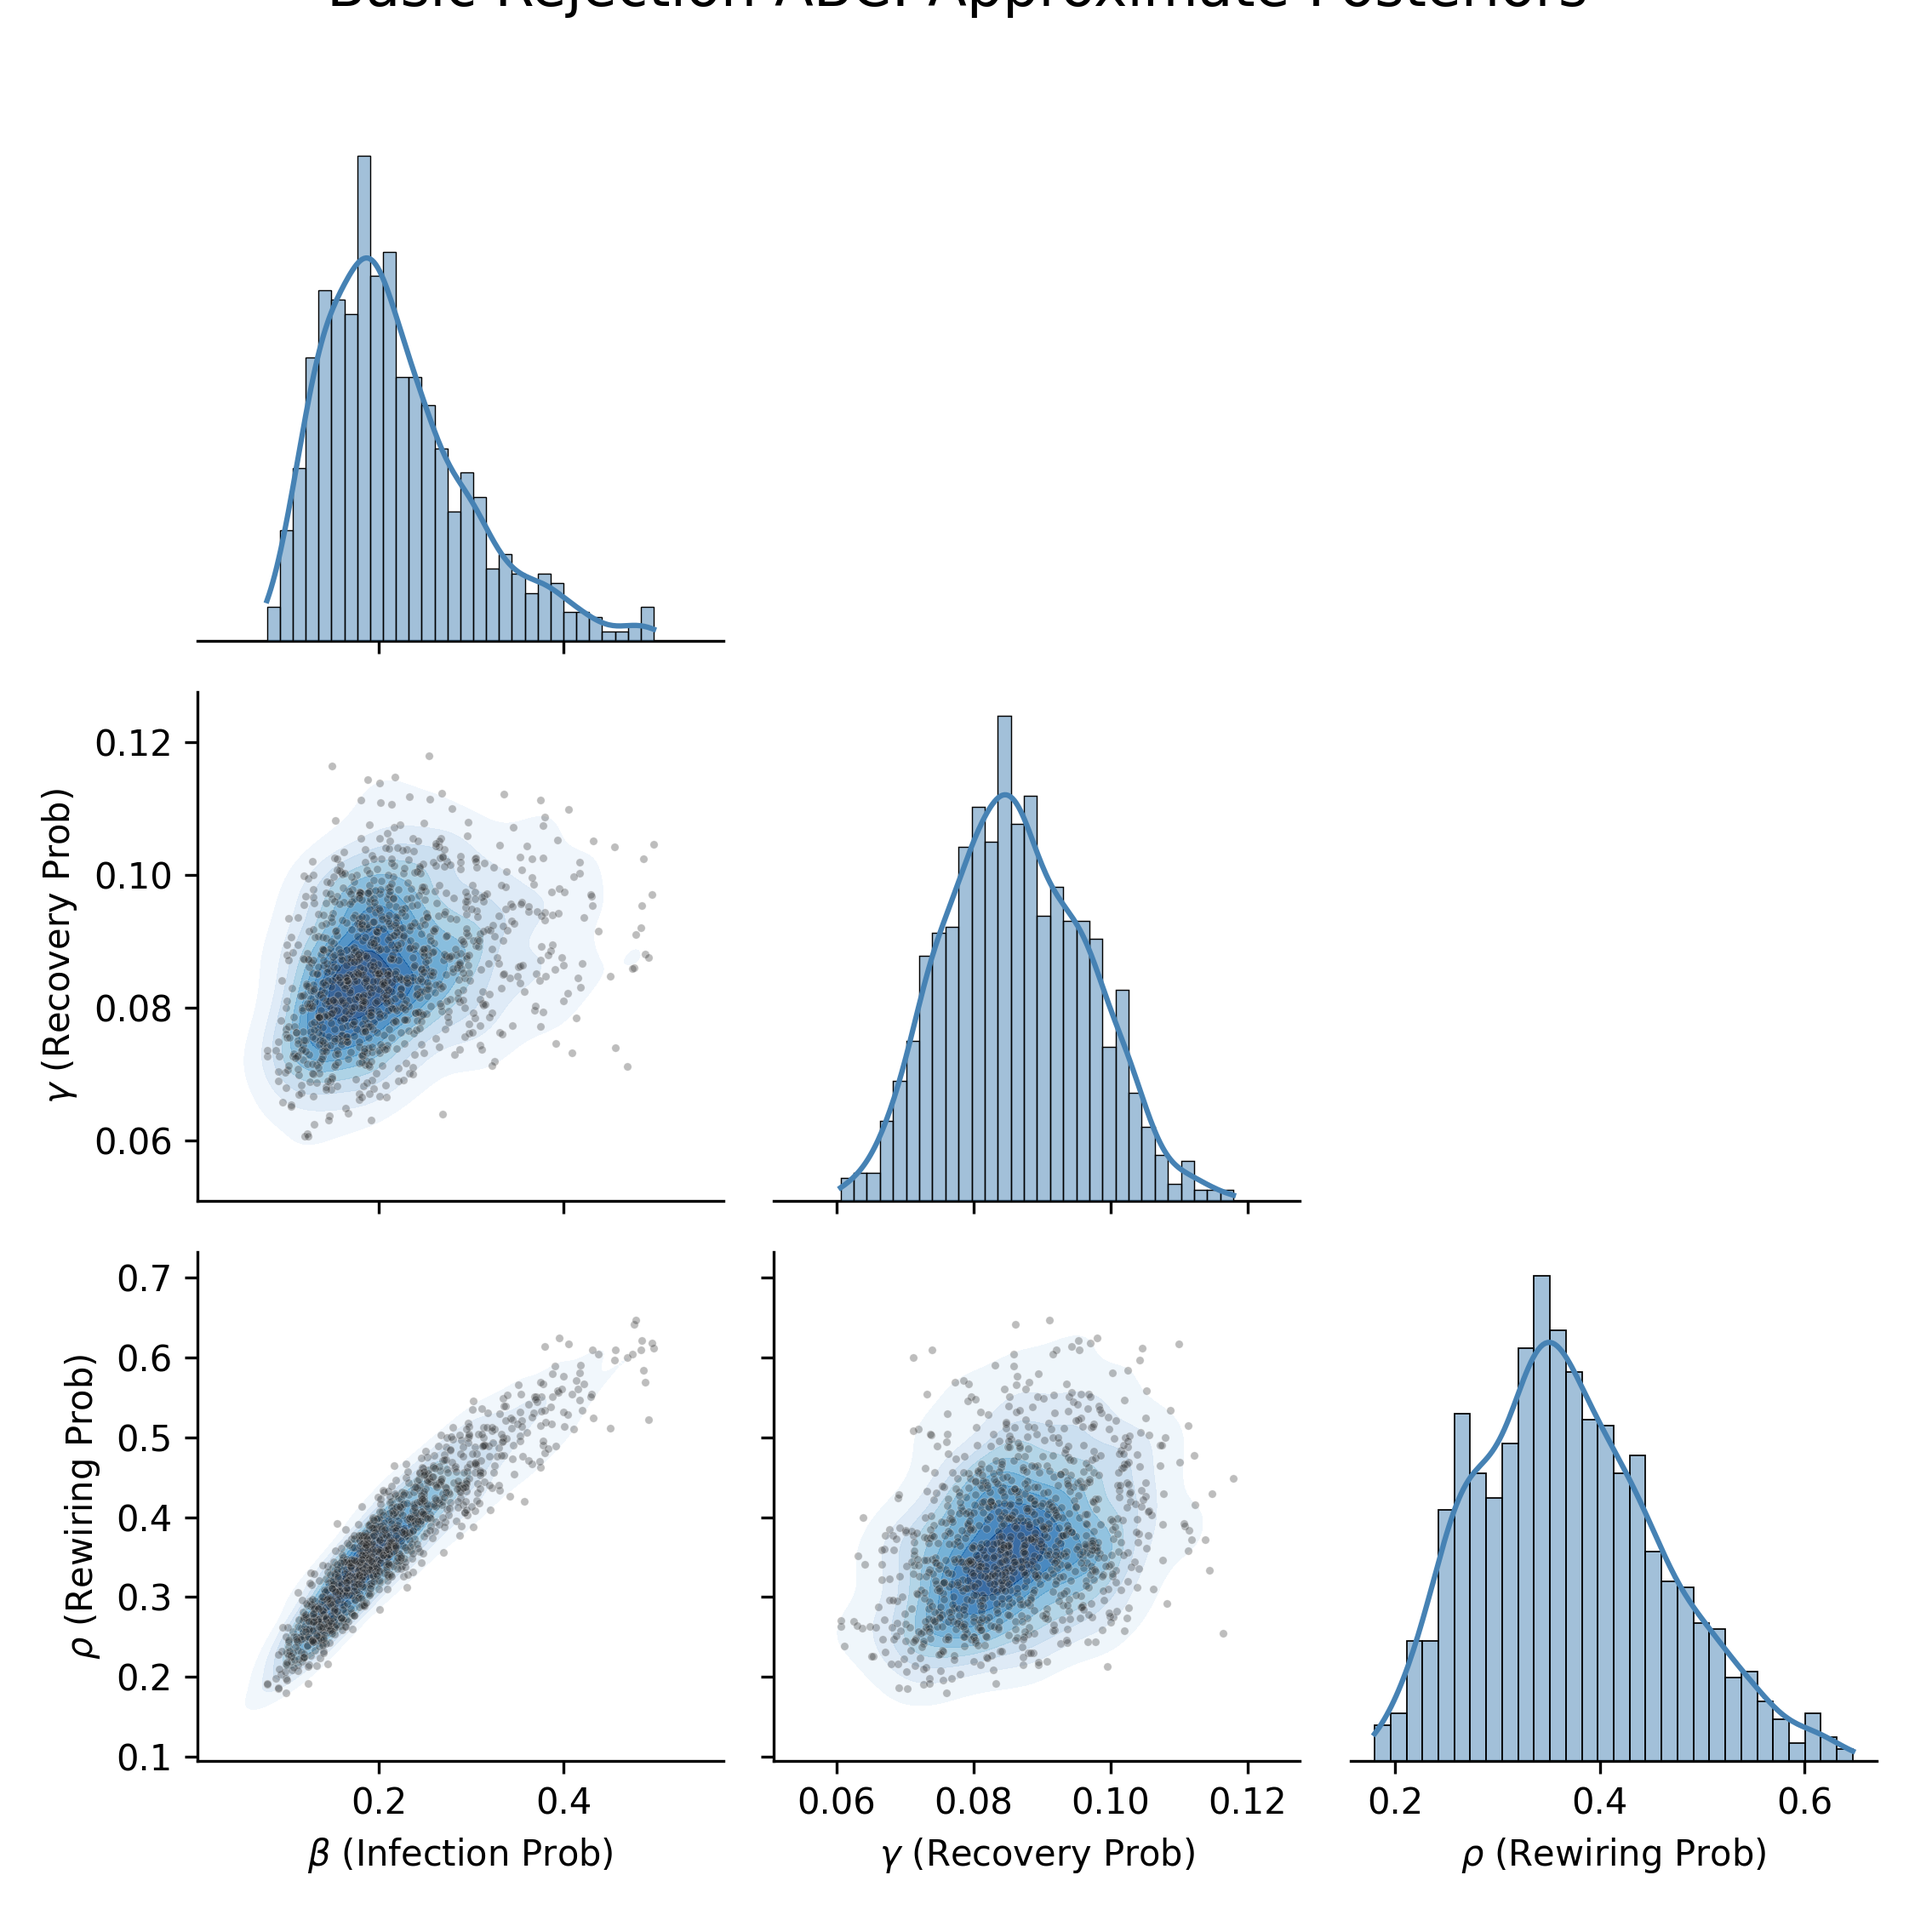
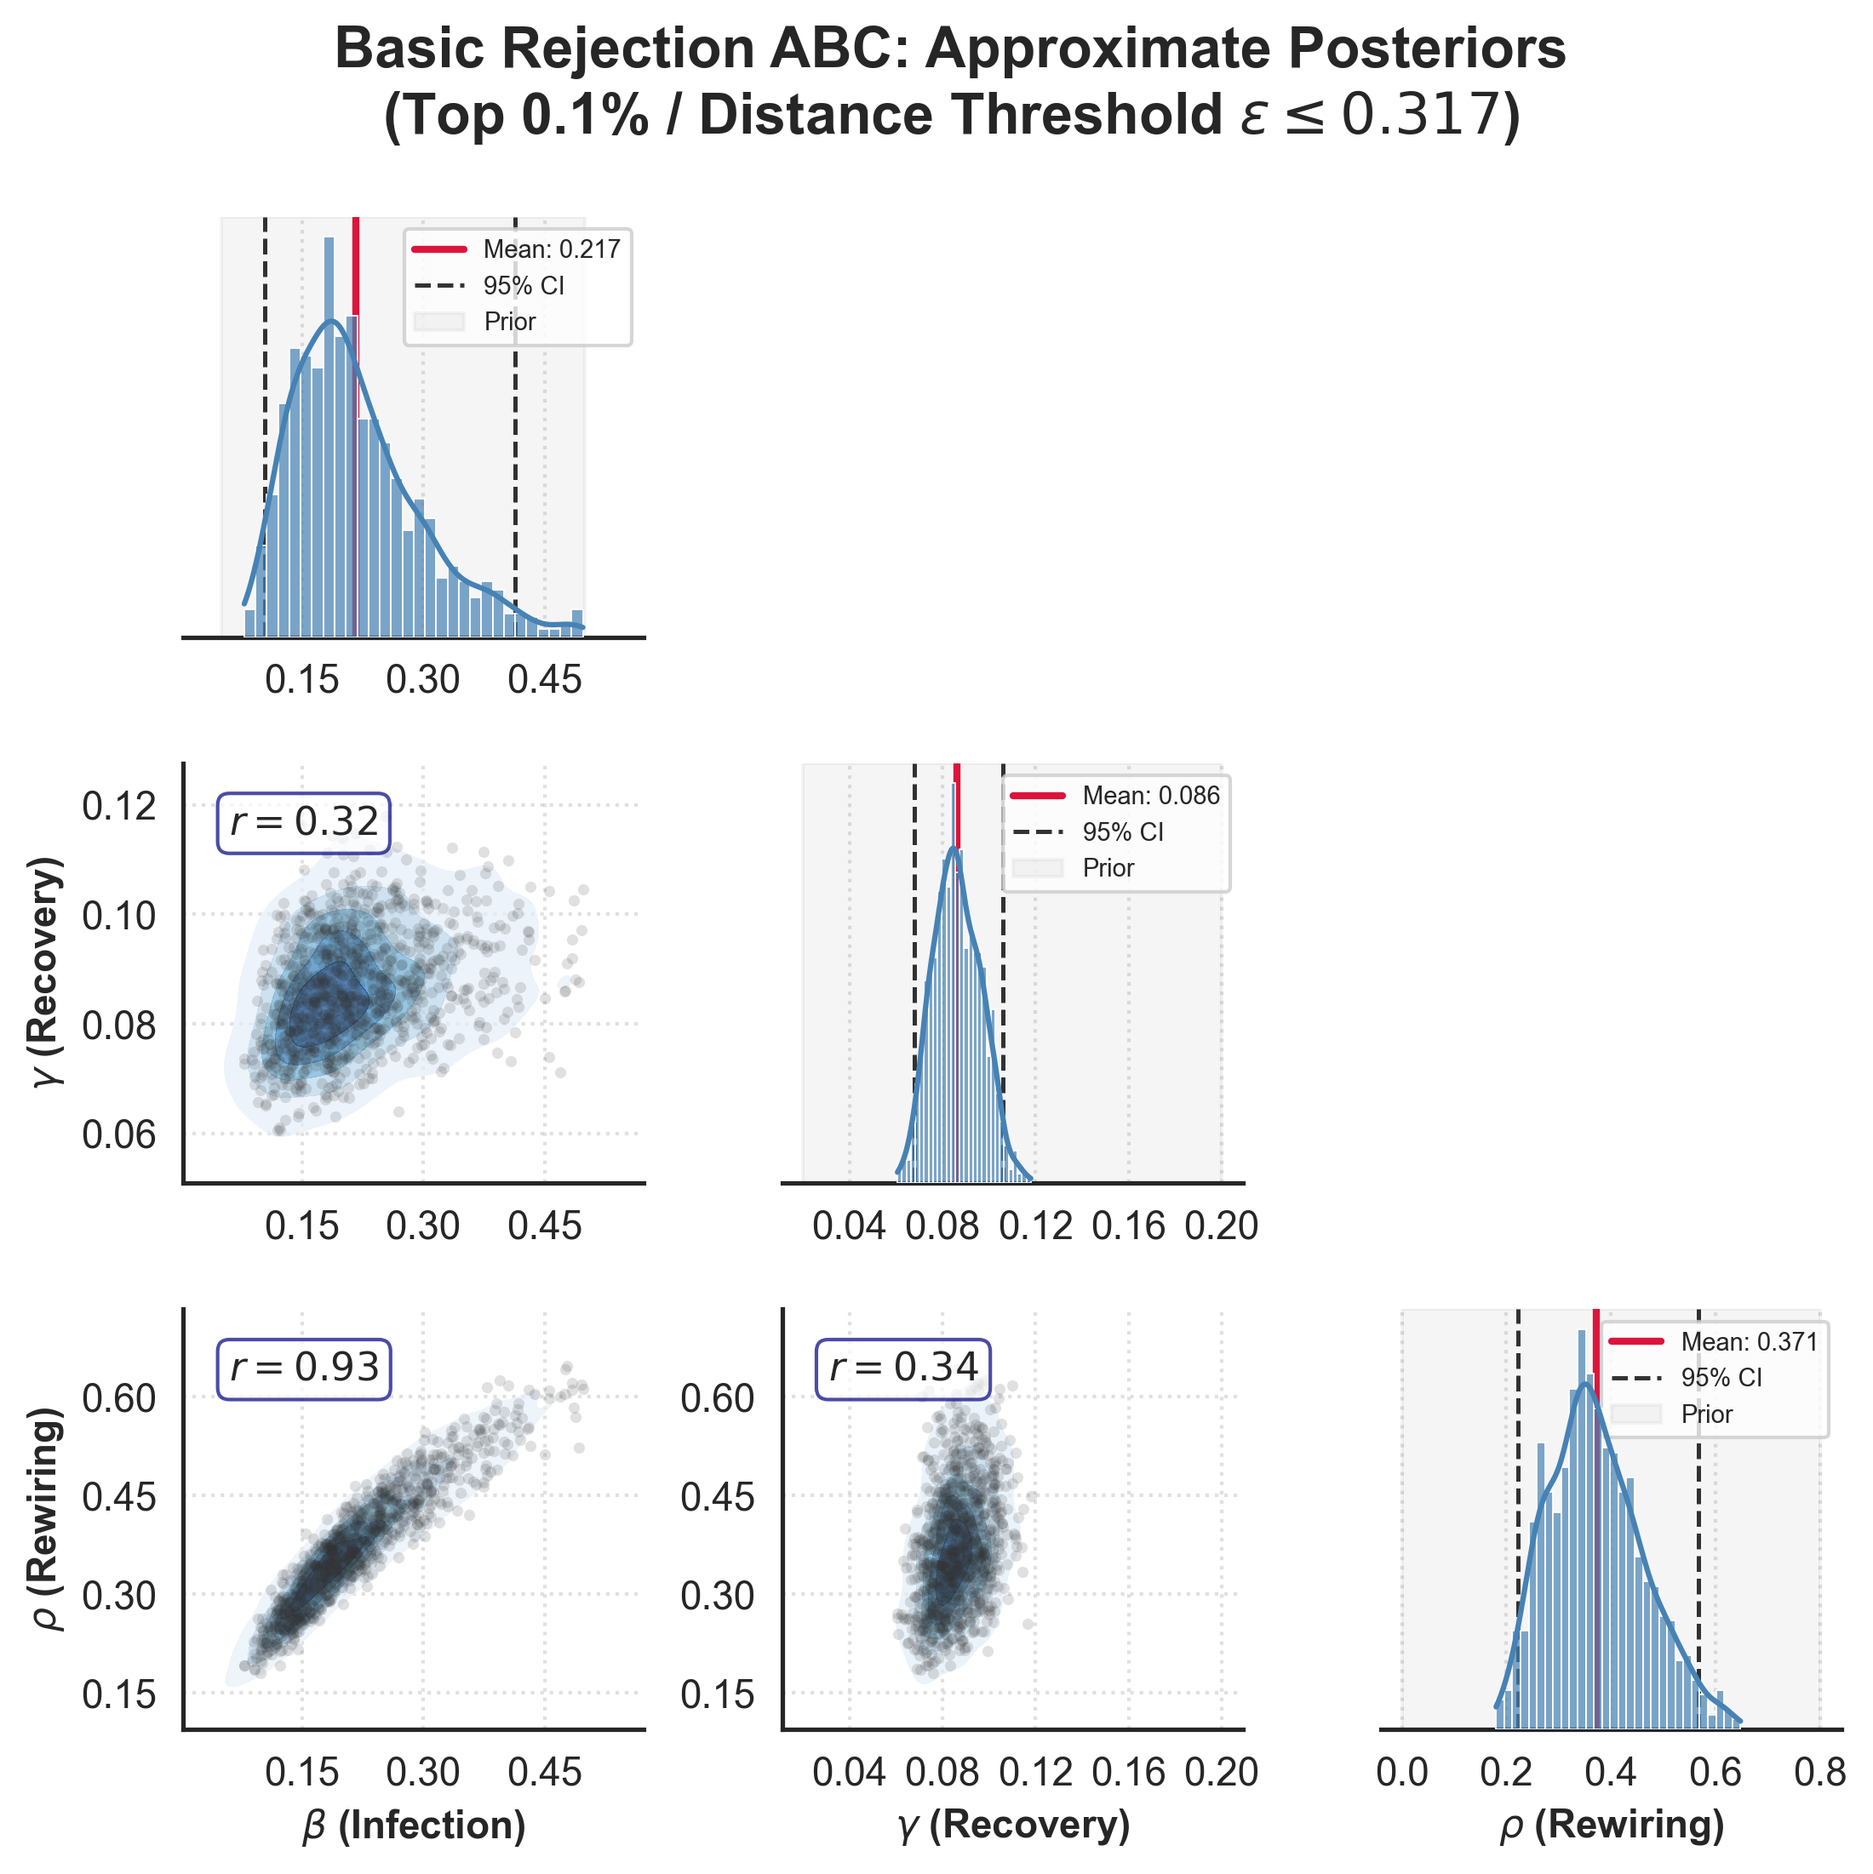
improved plotting

diff --git a/BasicABC-v1.py b/BasicABC-v1.py
@@ -144,32 +144,143 @@ def main():
     print(f"  Rho:   {np.mean(post_rhos):.4f}")
     
     # -----------------------------------------------------------------
-    # 5. Plotting the Approximate Posterior
+    # 5. Plotting the Approximate Posterior & Diagnostics
     # -----------------------------------------------------------------
-    print("Plotting posterior distributions...")
+    print("Plotting posterior distributions and diagnostics...")
     
-    # Put data into a DataFrame for easy seaborn plotting
+    import os
+    import matplotlib.ticker as ticker
+    
+    os.makedirs("./diagrams", exist_ok=True)  # Ensure the directory exists!
+
+    # Define labels and known prior bounds (from README)
+    param_labels = [r"$\beta$ (Infection)", r"$\gamma$ (Recovery)", r"$\rho$ (Rewiring)"]
+    prior_bounds = [(0.05, 0.50), (0.02, 0.20), (0.0, 0.8)]
+    
+    # post_params: Just the 1,000 accepted samples
+    post_params = [post_betas, post_gammas, post_rhos]
+    # all_params: The full 1,000,000 prior samples (needed for the diagnostic cloud)
+    all_params = [sim_betas, sim_gammas, sim_rhos]
+    
+    top_pct = QUANTILES_TOLERANCE * 100  # Format tolerance for title (e.g., 0.1)
+    
     df_posterior = pd.DataFrame({
-        r"$\beta$ (Infection Prob)": post_betas,
-        r"$\gamma$ (Recovery Prob)": post_gammas,
-        r"$\rho$ (Rewiring Prob)": post_rhos
+        param_labels[0]: post_betas,
+        param_labels[1]: post_gammas,
+        param_labels[2]: post_rhos
     })
     
-    # Create a PairGrid (pairwise scatter plots and marginal histograms)
+    # Calculate Posterior Means and 95% Credible Intervals (CI)
+    post_means = [np.mean(p) for p in post_params]
+    post_cis = [(np.percentile(p, 2.5), np.percentile(p, 97.5)) for p in post_params]
+
+    # =================================================================
+    # FIGURE 1: PairPlot (The Main Posterior)
+    # =================================================================
+    sns.set_theme(style="white") 
+    # corner=True creates the standard triangle plot
     g = sns.PairGrid(df_posterior, corner=True, diag_sharey=False)
     
-    # Upper/Lower corner: KDE density plots to show correlations
-    g.map_lower(sns.kdeplot, fill=True, cmap="Blues", alpha=0.8)
-    g.map_lower(sns.scatterplot, s=5, color=".15", alpha=0.3)
+    # 1. Map the Diagonal (Histograms)
+    g.map_diag(sns.histplot, kde=True, color="steelblue", bins=30, edgecolor='white', alpha=0.7)
     
-    # Diagonal: Marginal histograms
-    g.map_diag(sns.histplot, kde=True, color="steelblue", bins=30)
+    # 2. Map the Lower Triangle (KDE and Scatter)
+    g.map_lower(sns.kdeplot, fill=True, cmap="Blues", alpha=0.7, levels=6)
+    g.map_lower(sns.scatterplot, s=10, color=".2", alpha=0.15, linewidth=0)
     
-    g.fig.suptitle("Basic Rejection ABC: Approximate Posteriors", y=1.02, fontsize=16)
+    # 3. Customize Axes (Loop through the grid)
+    for i in range(len(param_labels)):
+        for j in range(i + 1):  # Iterate only over active subplots
+            ax = g.axes[i, j]
+            if ax is None:
+                continue
+            
+            # Force tick marks and labels on every single subplot for maximum readability
+            ax.tick_params(labelbottom=True, labelleft=True, direction='out', length=4, width=1)
+            ax.xaxis.set_major_locator(ticker.MaxNLocator(nbins=5))
+            ax.yaxis.set_major_locator(ticker.MaxNLocator(nbins=5))
+            
+            # Explicit axis labels for every subplot
+            ax.set_xlabel(param_labels[j], fontsize=11, fontweight='bold')
+            if i == j:
+                ax.set_ylabel("Density", fontsize=11, fontweight='bold')
+            else:
+                ax.set_ylabel(param_labels[i], fontsize=11, fontweight='bold')
+            
+            ax.grid(True, linestyle=':', alpha=0.6)
+            
+            # Enhancements for the Diagonal Marginal Plots
+            if i == j:
+                mean_val = post_means[i]
+                ax.axvline(mean_val, color='crimson', linestyle='-', linewidth=2, 
+                           label=f'Mean: {mean_val:.3f}')
+                
+                ci_low, ci_high = post_cis[i]
+                ax.axvline(ci_low, color='black', linestyle='--', linewidth=1.2, alpha=0.8, label='95% CI')
+                ax.axvline(ci_high, color='black', linestyle='--', linewidth=1.2, alpha=0.8)
+                
+                # Visual guide for prior bounds
+                bound_low, bound_high = prior_bounds[i]
+                ax.axvspan(bound_low, bound_high, color='gray', alpha=0.08, label='Prior')
+                
+                ax.legend(loc='upper right', fontsize=7, frameon=True, facecolor='white')
+                
+            # Enhancements for Scatter Plots: Add Correlation Coefficients
+            else:
+                r = np.corrcoef(post_params[j], post_params[i])[0, 1]
+                ax.annotate(f"$r = {r:.2f}$", xy=(0.1, 0.9), xycoords='axes fraction', 
+                            ha='left', va='top', fontsize=11, fontweight='bold',
+                            bbox=dict(boxstyle="round,pad=0.3", fc="white", ec="navy", alpha=0.7))
+
+    g.fig.suptitle(f"Basic Rejection ABC: Approximate Posteriors\n(Top {top_pct:g}% / Distance Threshold $\epsilon \leq {threshold:.3f}$)", 
+                   fontsize=16, fontweight='bold')
+    g.fig.subplots_adjust(top=0.88, hspace=0.3, wspace=0.3) # Increased spacing
     
-    plt.tight_layout()
-    plt.savefig("./diagrams/posterior_pairplot.png", dpi=300)
+    plt.savefig("./diagrams/posterior_pairplot.png", dpi=300, bbox_inches='tight')
     plt.show()
+
+    # =================================================================
+    # FIGURE 2: ABC Diagnostics (Distance vs. Parameters)
+    # =================================================================
+    fig, axes = plt.subplots(1, 3, figsize=(16, 5), sharey=True)
+    
+    # Subset 20,000 random prior samples for the "cloud" so the plot isn't sluggish
+    num_cloud = min(20000, len(sim_betas))
+    idx_subset = np.random.choice(len(sim_betas), num_cloud, replace=False)
+    
+    # Cap the Y-axis at the 95th percentile to focus on the 'funnel' area
+    max_dist_plot = np.percentile(distances, 95)
+    
+    for i, ax in enumerate(axes):
+        # 1. Plot the "Cloud" of all prior simulations (Rejected points)
+        ax.scatter(all_params[i][idx_subset], distances[idx_subset], 
+                   c='gray', s=4, alpha=0.1, label='Rejected Samples')
+        
+        # 2. Highlight the "Accepted" points in red
+        ax.scatter(all_params[i][accepted_mask], distances[accepted_mask], 
+                   c='crimson', s=12, alpha=0.6, edgecolor='white', linewidth=0.2, 
+                   label=f'Accepted ($d \leq \epsilon$)')
+        
+        # 3. Draw the threshold line
+        ax.axhline(threshold, color='black', linestyle='--', linewidth=1.5)
+        
+        ax.set_ylim(0, max_dist_plot)
+        ax.set_xlim(prior_bounds[i])
+        ax.xaxis.set_major_locator(ticker.MaxNLocator(nbins=6))
+        
+        ax.set_xlabel(param_labels[i], fontsize=12, fontweight='bold')
+        ax.grid(True, linestyle=':', alpha=0.6)
+        
+        if i == 0:
+            ax.set_ylabel("Normalized Euclidean Distance", fontsize=12, fontweight='bold')
+            ax.legend(loc='upper right', fontsize=9, frameon=True)
+
+    fig.suptitle(f"ABC Diagnostics: Parameter Convergence (Tolerance: {top_pct:g}%)", 
+                 fontsize=16, fontweight='bold')
+    plt.tight_layout(rect=[0, 0.03, 1, 0.95])
+    plt.savefig("./diagrams/abc_diagnostics.png", dpi=300, bbox_inches='tight')
+    plt.show()
+
 
 if __name__ == "__main__":
     main()
